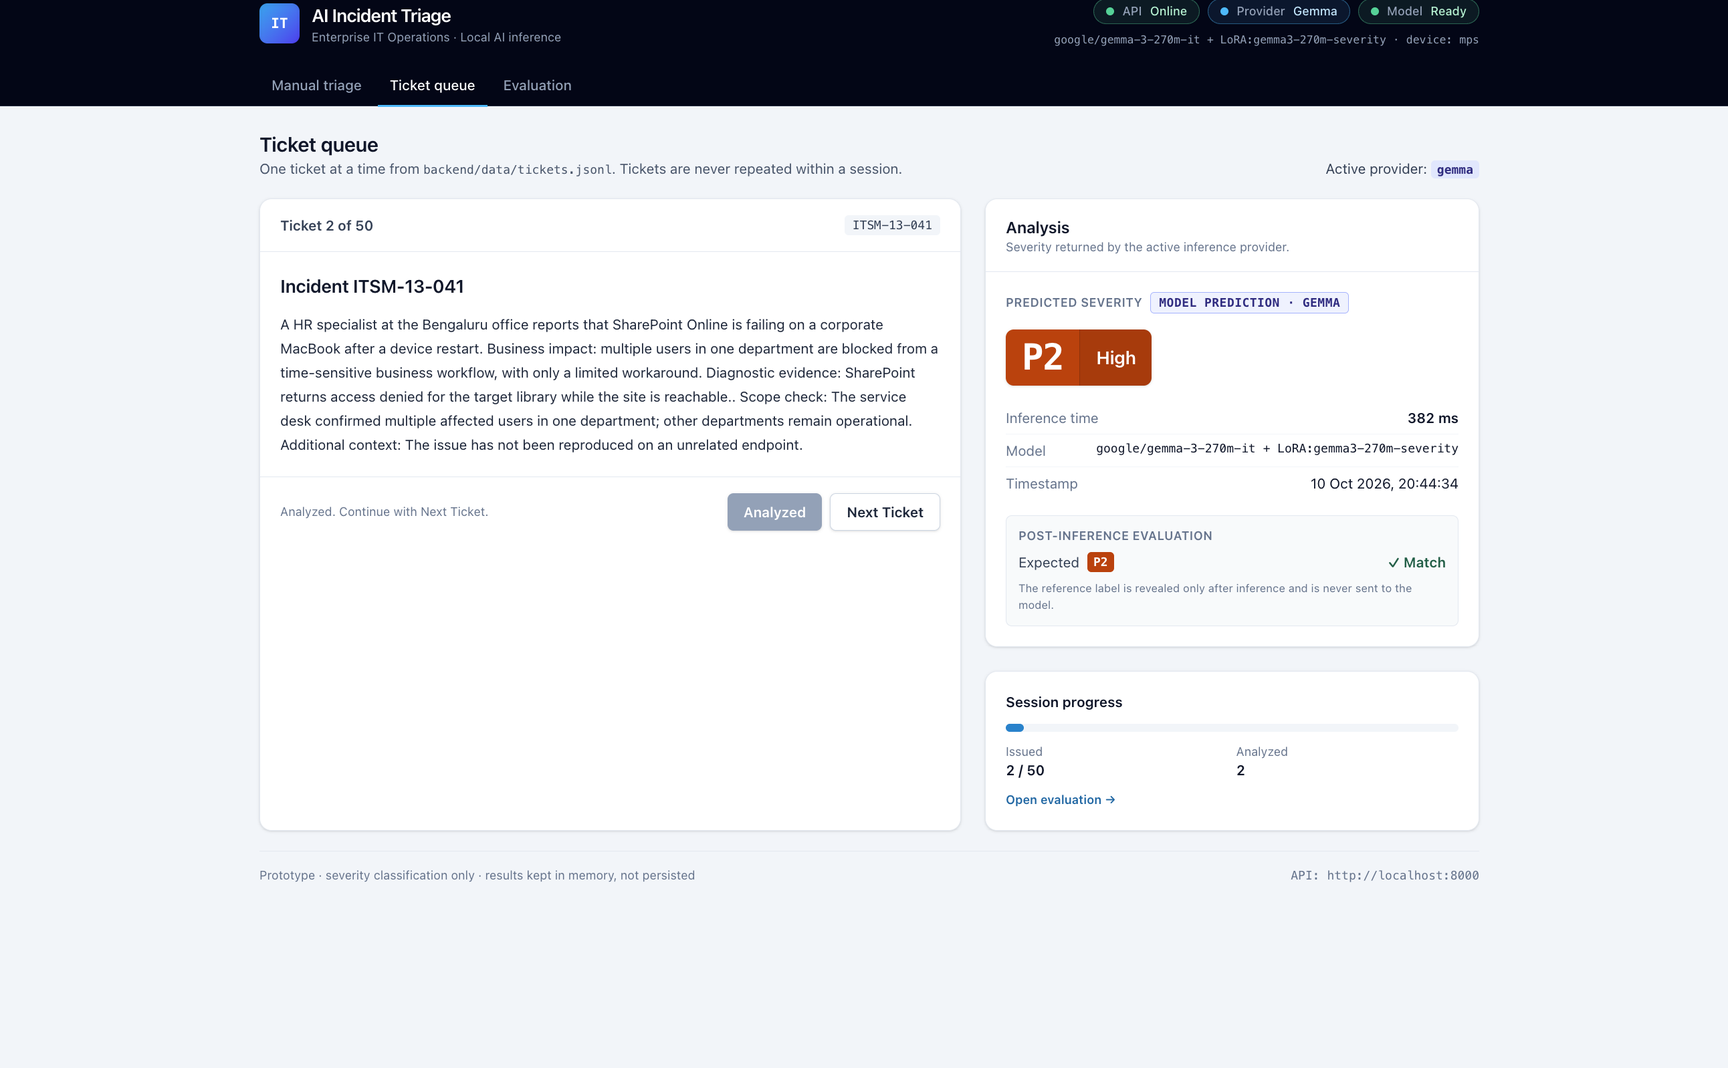
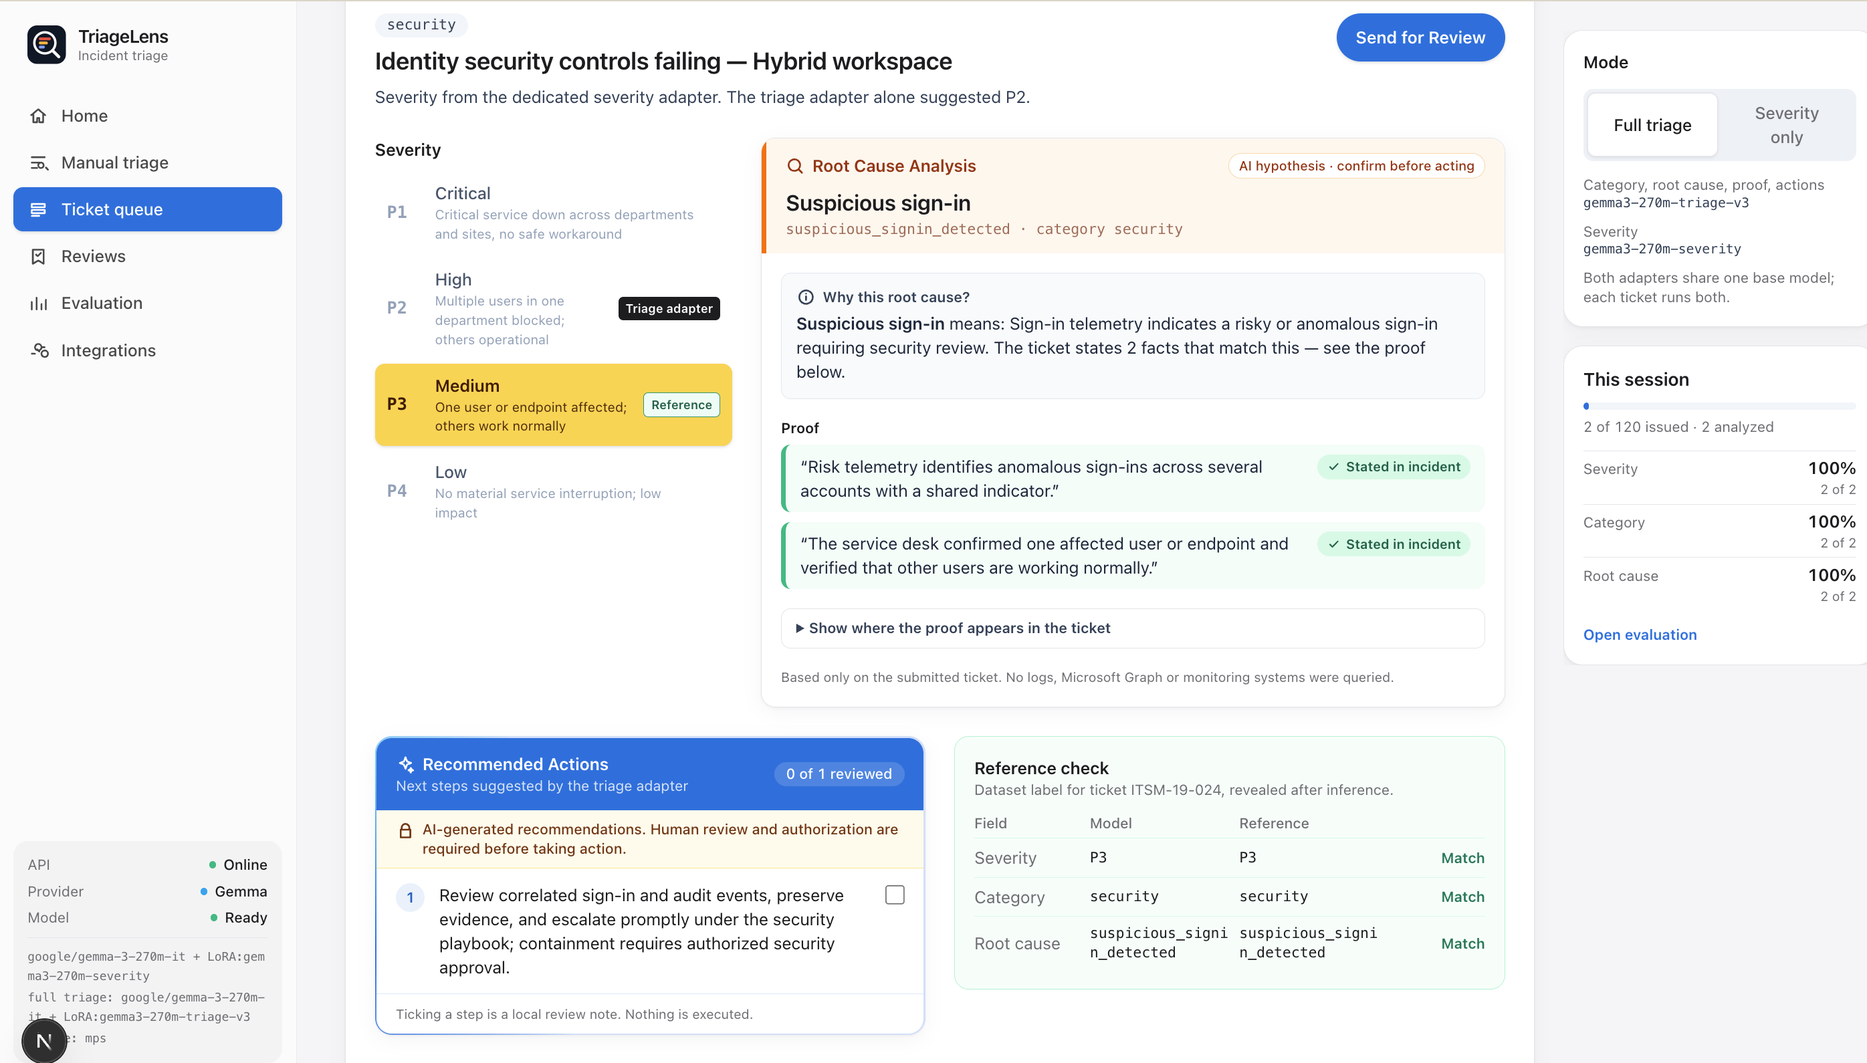
Update TriageLens content and speed up mobile rendering
- TriageLens: new screenshots, rewritten description, "How It Works"
  steps, and a Download Code + Model link
- Serve carousel images via next/image so phones get resized assets
- Disable costly effects on mobile (noise overlay, large blurs,
  backdrop blur, rotating demo border); throttle navbar scroll handler
- Lazy-load remaining images and tighten mobile spacing

diff --git a/components/Projects.tsx b/components/Projects.tsx
@@ -13,22 +13,26 @@ const projectsData = [
     status: "Machine Learning Project",
     featured: true,
     fineTuneDemo: true,
-    links: { "GitHub": "https://github.com/Atifelx/AI_Triage" },
+    links: {
+      "GitHub": "https://github.com/Atifelx/AI_Triage",
+      "Download Code + Model": "https://www.dropbox.com/scl/fo/gysi2jbvm043rygk7ag43/AIs7c81v_5BqOu4Qc8dS-hs?rlkey=wsfrjdq8yfbfnuzrsh6r5f1gc&st=z4dbmv3w&e=1&dl=0",
+    },
     image: "/AITRIAGE/1.png",
     slides: [
-      { src: "/AITRIAGE/1.png", title: "Live ticket queue" },
-      { src: "/AITRIAGE/2.png", title: "Manual triage" },
-      { src: "/AITRIAGE/3.png", title: "Evaluation dashboard" },
+      { src: "/AITRIAGE/1.png", title: "AI triage result" },
+      { src: "/AITRIAGE/2_1.png", title: "Route for human review" },
+      { src: "/AITRIAGE/4_1.png", title: "Review decision" },
+      { src: "/AITRIAGE/3_1.png", title: "Integrations" },
     ],
-    description: "Every IT service desk faces the same bottleneck: an engineer must read each incident and judge its urgency before it can be routed — slow, inconsistent, and costly when a critical outage waits in the queue. TriageLens reads the incident and instantly suggests a P1–P4 severity, so engineers confirm instead of triaging from scratch. Rather than paying for a large LLM API, I solved it with one of the smallest open models available: Google's Gemma 3 270M plus a 2.8 MB LoRA adapter. Prompting alone scored 7%; after two fine-tuning rounds, a severity-focused adapter scored 100% on a held-out synthetic test set. Real-world tickets written in other styles are harder, so the next step is training on a larger, more varied set of real incidents. It runs locally on CPU in ~0.4 s per ticket.",
+    slidesAspect: "2792 / 1590",
+    description: "AI Incident Triage is an AI-powered enterprise IT support tool that analyzes incidents, assesses their severity, identifies potential root causes, and recommends next steps. It is designed for common IT support tickets involving Microsoft 365 sign-in failures, Conditional Access, device compliance, Exchange email delivery, SharePoint permissions, Teams connectivity, network issues, and security alerts. By structuring incident information into actionable insights, it helps support teams prioritize issues, reduce manual triage effort, and route tickets to the appropriate team for human review.",
     tech: ["Gemma 3 270M", "LoRA / PEFT", "PyTorch", "Hugging Face", "FastAPI", "Next.js"],
     gradient: "from-teal-500/20 to-purple-500/20",
-    architectureTitle: "Why Gemma 3 270M",
+    architectureTitle: "How It Works",
     architecture: [
-      "Smallest model that fit — a 4-label task doesn't need a large model's world knowledge",
-      "Instruction-tuned — valid JSON 99% of the time before any training",
-      "Runs on CPU at ~0.41 s per ticket — no GPU server, no paid API",
-      "LoRA trains just 0.27% of weights — a 2.8 MB, swappable adapter"
+      "Analyze — processes incident details, affected users, services, and business impact using a fine-tuned Gemma model",
+      "Recommend — generates category, P1–P4 severity, likely root cause, supporting evidence, and recommended actions",
+      "Route — an engineer reviews the analysis and selects a destination such as Teams, CRM, ServiceNow, or Jira through mock integrations"
     ]
   },
   {
@@ -124,7 +128,7 @@ function ProjectCard({ project, idx }: { project: typeof projectsData[0]; idx: n
               viewport={{ once: true, margin: "-100px" }}
               transition={{ duration: 0.8, ease: [0.16, 1, 0.3, 1] }}
               className={clsx(
-                "flex flex-col gap-12 items-center",
+                "flex flex-col gap-8 md:gap-12 items-center",
                 idx % 2 === 0 ? "md:flex-row" : "md:flex-row-reverse"
               )}
             >
@@ -159,7 +163,7 @@ function ProjectCard({ project, idx }: { project: typeof projectsData[0]; idx: n
                     {project.title}
                   </h3>
 
-                  <p className="text-gray-400 text-lg md:text-xl leading-relaxed mb-8 max-w-xl">
+                  <p className="text-gray-400 text-base md:text-xl leading-relaxed mb-8 max-w-xl">
                     {project.description}
                   </p>
 
@@ -167,7 +171,7 @@ function ProjectCard({ project, idx }: { project: typeof projectsData[0]; idx: n
 
                   {/* Architecture Breakdown for CryptoClever */}
                   {(project as any).architecture && (
-                    <div className="mb-8 p-6 rounded-2xl bg-white/[0.03] border border-white/10">
+                    <div className="mb-8 p-4 md:p-6 rounded-2xl bg-white/[0.03] border border-white/10">
                       <h4 className="text-sm font-mono font-bold text-teal-400 uppercase tracking-widest mb-4">{(project as any).architectureTitle ?? "Agent Architecture"}</h4>
                       <div className="space-y-3">
                         {(project as any).architecture.map((line: string, aIdx: number) => (
@@ -226,7 +230,7 @@ function ProjectCard({ project, idx }: { project: typeof projectsData[0]; idx: n
                   className="relative group/img"
                 >
                   <div className={clsx(
-                    "absolute -inset-4 rounded-[2rem] bg-gradient-to-br opacity-0 group-hover/img:opacity-100 blur-2xl transition-opacity duration-700",
+                    "hidden md:block absolute -inset-4 rounded-[2rem] bg-gradient-to-br opacity-0 group-hover/img:opacity-100 blur-2xl transition-opacity duration-700",
                     project.gradient
                   )} />
                   {(project as any).slides ? (
@@ -236,6 +240,8 @@ function ProjectCard({ project, idx }: { project: typeof projectsData[0]; idx: n
                       <img
                         src={project.image}
                         alt={project.title}
+                        loading="lazy"
+                        decoding="async"
                         className="w-full h-auto object-cover transition-transform duration-700 group-hover/img:scale-105"
                       />
                       <div className="absolute inset-0 bg-gradient-to-t from-black/40 via-transparent to-transparent pointer-events-none" />
@@ -268,7 +274,7 @@ export default function Projects() {
           </p>
         </motion.div>
 
-        <div className="space-y-40">
+        <div className="space-y-24 md:space-y-40">
           {featuredProjects.map((project, idx) => (
             <ProjectCard key={idx} project={project} idx={idx} />
           ))}
@@ -305,7 +311,7 @@ export default function Projects() {
               transition={{ duration: 0.5, ease: [0.16, 1, 0.3, 1] }}
               className="overflow-hidden"
             >
-              <div className="space-y-40 pt-32">
+              <div className="space-y-24 md:space-y-40 pt-24 md:pt-32">
                 {exploreProjects.map((project, idx) => (
                   <ProjectCard key={idx} project={project} idx={idx} />
                 ))}
@@ -316,8 +322,8 @@ export default function Projects() {
       </div>
 
       {/* Decorative background elements */}
-      <div className="absolute top-1/2 left-0 w-64 h-64 bg-teal-600/10 rounded-full blur-[128px] pointer-events-none" />
-      <div className="absolute bottom-0 right-0 w-96 h-96 bg-purple-600/10 rounded-full blur-[128px] pointer-events-none" />
+      <div className="hidden md:block absolute top-1/2 left-0 w-64 h-64 bg-teal-600/10 rounded-full blur-[128px] pointer-events-none" />
+      <div className="hidden md:block absolute bottom-0 right-0 w-96 h-96 bg-purple-600/10 rounded-full blur-[128px] pointer-events-none" />
     </section>
   );
 }

diff --git a/components/ImageCarousel.tsx b/components/ImageCarousel.tsx
@@ -2,6 +2,7 @@
 
 import { useCallback, useEffect, useState } from "react";
 import { createPortal } from "react-dom";
+import Image from "next/image";
 import { motion, AnimatePresence, useReducedMotion } from "framer-motion";
 import { ChevronLeft, ChevronRight, Maximize2, X } from "lucide-react";
 import clsx from "clsx";
@@ -19,11 +20,11 @@ function NavButton({ dir, onClick, large }: { dir: "prev" | "next"; onClick: () 
       aria-label={dir === "prev" ? "Previous image" : "Next image"}
       className={clsx(
         "absolute top-1/2 -translate-y-1/2 z-10 rounded-full bg-black/60 backdrop-blur-md border border-white/15 text-white flex items-center justify-center hover:bg-teal-400 hover:text-black hover:border-teal-400 transition-colors",
-        dir === "prev" ? (large ? "left-6" : "left-4") : (large ? "right-6" : "right-4"),
-        large ? "w-14 h-14" : "w-11 h-11"
+        dir === "prev" ? (large ? "left-2 md:left-6" : "left-2 md:left-4") : (large ? "right-2 md:right-6" : "right-2 md:right-4"),
+        large ? "w-11 h-11 md:w-14 md:h-14" : "w-8 h-8 md:w-11 md:h-11"
       )}
     >
-      <Icon size={large ? 26 : 22} />
+      <Icon size={large ? 24 : 18} />
     </button>
   );
 }
@@ -85,13 +86,15 @@ export default function ImageCarousel({ slides, alt, aspectRatio = "2584 / 1598"
       >
         <div className="relative overflow-hidden" style={{ aspectRatio }}>
           <AnimatePresence initial={false} mode="popLayout">
-            <motion.img
-              key={slide.src}
-              src={slide.src}
-              alt={`${alt} — ${slide.title}`}
-              {...slideMotion}
-              className="absolute inset-0 w-full h-full object-contain transition-transform duration-700 group-hover/img:scale-105"
-            />
+            <motion.div key={slide.src} {...slideMotion} className="absolute inset-0">
+              <Image
+                src={slide.src}
+                alt={`${alt} — ${slide.title}`}
+                fill
+                sizes="(max-width: 768px) 100vw, 50vw"
+                className="object-contain transition-transform duration-700 group-hover/img:scale-105"
+              />
+            </motion.div>
           </AnimatePresence>
           <div className="absolute inset-0 bg-gradient-to-t from-black/60 via-transparent to-transparent pointer-events-none" />
 
@@ -134,7 +137,7 @@ export default function ImageCarousel({ slides, alt, aspectRatio = "2584 / 1598"
               animate={{ opacity: 1 }}
               exit={{ opacity: 0 }}
               transition={{ duration: 0.3 }}
-              className="fixed inset-0 z-[100] bg-black/90 backdrop-blur-lg flex flex-col items-center justify-center p-6 cursor-zoom-out"
+              className="fixed inset-0 z-[100] bg-black/90 md:backdrop-blur-lg flex flex-col items-center justify-center p-3 md:p-6 cursor-zoom-out"
               role="dialog"
               aria-modal="true"
               aria-label={`${alt} — full screen`}
@@ -153,17 +156,19 @@ export default function ImageCarousel({ slides, alt, aspectRatio = "2584 / 1598"
                 initial={{ scale: 0.9 }}
                 animate={{ scale: 1 }}
                 transition={{ duration: 0.4, ease: [0.16, 1, 0.3, 1] }}
-                className="relative w-full max-w-7xl h-[82vh] flex items-center justify-center"
+                className="relative w-full max-w-7xl h-[70vh] md:h-[82vh] flex items-center justify-center"
               >
                 <AnimatePresence initial={false} mode="popLayout">
-                  <motion.img
-                    key={slide.src}
-                    src={slide.src}
-                    alt={`${alt} — ${slide.title}`}
-                    {...slideMotion}
-                    onClick={(e) => e.stopPropagation()}
-                    className="max-w-full max-h-full object-contain rounded-xl border border-white/10 shadow-2xl cursor-default"
-                  />
+                  <motion.div key={slide.src} {...slideMotion} className="absolute inset-0">
+                    <Image
+                      src={slide.src}
+                      alt={`${alt} — ${slide.title}`}
+                      fill
+                      sizes="100vw"
+                      onClick={(e) => e.stopPropagation()}
+                      className="object-contain cursor-default"
+                    />
+                  </motion.div>
                 </AnimatePresence>
               </motion.div>
 

diff --git a/components/Hybrid.tsx b/components/Hybrid.tsx
@@ -51,8 +51,8 @@ export default function Hybrid() {
 
           <div className="glass-card p-8 md:p-10 border border-white/10 bg-[#0a0a0a]/80 mb-16 relative overflow-hidden group">
             {/* Animated accent gradient */}
-            <div className="absolute top-0 right-0 w-64 h-64 bg-teal-500/10 rounded-full blur-[80px] -z-10 group-hover:bg-teal-500/20 transition-colors duration-700" />
-            <div className="absolute bottom-0 left-0 w-64 h-64 bg-purple-500/10 rounded-full blur-[80px] -z-10 group-hover:bg-purple-500/20 transition-colors duration-700" />
+            <div className="hidden md:block absolute top-0 right-0 w-64 h-64 bg-teal-500/10 rounded-full blur-[80px] -z-10 group-hover:bg-teal-500/20 transition-colors duration-700" />
+            <div className="hidden md:block absolute bottom-0 left-0 w-64 h-64 bg-purple-500/10 rounded-full blur-[80px] -z-10 group-hover:bg-purple-500/20 transition-colors duration-700" />
 
             <div className="flex items-center gap-4 mb-6">
               <span className="px-4 py-2 text-sm font-black tracking-wider uppercase rounded-full bg-gradient-to-r from-amber-500/20 to-orange-500/20 text-amber-400 border border-amber-500/30">
@@ -171,7 +171,7 @@ export default function Hybrid() {
             className="fixed inset-0 z-[100] flex items-center justify-center p-4 md:p-8"
           >
             <div 
-              className="absolute inset-0 bg-black/80 backdrop-blur-md cursor-pointer"
+              className="absolute inset-0 bg-black/80 md:backdrop-blur-md cursor-pointer"
               onClick={() => setSelectedImages(null)}
             />
             
@@ -196,7 +196,7 @@ export default function Hybrid() {
                 <div className={`grid gap-4 ${selectedImages.length > 1 ? 'grid-cols-1 md:grid-cols-2' : 'grid-cols-1'}`}>
                   {selectedImages.map((img, i) => (
                     <div key={i} className="rounded-lg overflow-hidden border border-white/10 bg-black">
-                      <img 
+                      <img loading="lazy" decoding="async" 
                         src={img} 
                         alt="Hardware Project Detail" 
                         className="w-full h-auto object-contain max-h-[70vh] mx-auto"

diff --git a/components/NavBar.tsx b/components/NavBar.tsx
@@ -20,7 +20,9 @@ export default function NavBar() {
   const [isMobileMenuOpen, setIsMobileMenuOpen] = useState(false);
 
   useEffect(() => {
-    const handleScroll = () => {
+    let frame = 0;
+    const update = () => {
+      frame = 0;
       setIsScrolled(window.scrollY > 50);
 
       const sections = ["home", "about", "projects", "experience", "strength", "achievements", "hybrid", "contact"];
@@ -33,9 +35,16 @@ export default function NavBar() {
       }
       if (current) setActiveSection(current);
     };
+    // Coalesce scroll events to one update per frame
+    const handleScroll = () => {
+      if (!frame) frame = requestAnimationFrame(update);
+    };
 
-    window.addEventListener("scroll", handleScroll);
-    return () => window.removeEventListener("scroll", handleScroll);
+    window.addEventListener("scroll", handleScroll, { passive: true });
+    return () => {
+      window.removeEventListener("scroll", handleScroll);
+      cancelAnimationFrame(frame);
+    };
   }, []);
 
   const handleNavClick = (href: string) => {
@@ -56,7 +65,7 @@ export default function NavBar() {
       transition={{ duration: 0.6, ease: "easeOut" }}
       className={clsx(
         "fixed top-0 left-0 right-0 z-50 transition-all duration-300",
-        isScrolled ? "bg-black/80 backdrop-blur-xl py-4 border-b border-white/5" : "bg-transparent py-6"
+        isScrolled ? "bg-black/90 md:bg-black/80 md:backdrop-blur-xl py-4 border-b border-white/5" : "bg-transparent py-6"
       )}
     >
       <div className="container mx-auto px-6 max-w-7xl flex justify-between items-center">
@@ -120,7 +129,7 @@ export default function NavBar() {
         <motion.div
           initial={{ opacity: 0, y: -20 }}
           animate={{ opacity: 1, y: 0 }}
-          className="md:hidden bg-black/95 backdrop-blur-2xl absolute top-full left-0 right-0 py-8 flex flex-col items-center space-y-6 shadow-2xl border-t border-white/10"
+          className="md:hidden bg-black/95 absolute top-full left-0 right-0 py-8 flex flex-col items-center space-y-6 shadow-2xl border-t border-white/10"
         >
           {navLinks.map((link) => (
             <a

diff --git a/components/Hero.tsx b/components/Hero.tsx
@@ -10,8 +10,8 @@ export default function Hero() {
       className="relative min-h-screen flex items-center justify-center pt-24 pb-12 overflow-hidden bg-black"
     >
       {/* Background gradients */}
-      <div className="absolute top-1/4 left-1/4 w-96 h-96 bg-purple-600/20 rounded-full blur-[128px] pointer-events-none" />
-      <div className="absolute bottom-1/4 right-1/4 w-[28rem] h-[28rem] bg-teal-600/20 rounded-full blur-[128px] pointer-events-none" />
+      <div className="absolute top-1/4 left-1/4 w-48 h-48 md:w-96 md:h-96 bg-purple-600/20 rounded-full blur-3xl md:blur-[128px] pointer-events-none" />
+      <div className="absolute bottom-1/4 right-1/4 w-56 h-56 md:w-[28rem] md:h-[28rem] bg-teal-600/20 rounded-full blur-3xl md:blur-[128px] pointer-events-none" />
 
       <div className="container mx-auto px-6 max-w-6xl relative z-10 flex flex-col md:flex-row items-center">
         <div className="w-full md:w-full text-left">
@@ -74,7 +74,7 @@ export default function Hero() {
 
             <a
               href="mailto:aatif2003@gmail.com"
-              className="group inline-flex items-center justify-center px-8 py-4 font-bold text-white bg-white/5 backdrop-blur border border-white/10 rounded-xl transition-all duration-300 hover:bg-white/10 hover:scale-105"
+              className="group inline-flex items-center justify-center px-8 py-4 font-bold text-white bg-white/5 md:backdrop-blur border border-white/10 rounded-xl transition-all duration-300 hover:bg-white/10 hover:scale-105"
             >
               <Mail size={22} className="mr-2 text-teal-400" />
               <span>Email Me</span>

diff --git a/components/FineTuneDemo.tsx b/components/FineTuneDemo.tsx
@@ -42,11 +42,11 @@ export default function FineTuneDemo() {
   const ex = examples[i];
 
   return (
-    <div className="relative mb-8 rounded-2xl p-px overflow-hidden max-w-xl">
-      {/* Rotating gradient border */}
+    <div className="relative mb-8 rounded-2xl p-px overflow-hidden max-w-xl bg-gradient-to-br from-teal-400/70 via-purple-500/50 to-transparent sm:bg-none">
+      {/* Rotating gradient border (static gradient on mobile to save GPU) */}
       <motion.div
         aria-hidden
-        className="absolute inset-[-150%]"
+        className="hidden sm:block absolute inset-[-150%]"
         style={{ background: "conic-gradient(from 0deg, transparent 0deg, #2dd4bf 70deg, #a855f7 140deg, transparent 200deg)" }}
         animate={reduceMotion ? undefined : { rotate: 360 }}
         transition={{ duration: 6, repeat: Infinity, ease: "linear" }}

diff --git a/components/Strength.tsx b/components/Strength.tsx
@@ -49,7 +49,7 @@ export default function Strength() {
             
             <div className="relative group rounded-xl overflow-hidden glass-card p-2 md:p-4 border border-white/10">
               <div className="relative w-full aspect-auto rounded-lg overflow-hidden bg-white/5 border border-white/5">
-                <img 
+                <img loading="lazy" decoding="async" 
                   src="/ch1.png" 
                   alt="LinkedIn Recommendations from Dr. Chiranjiv Roy and Bilal Hameed"
                   className="w-full h-auto object-cover opacity-80 filter grayscale-[20%] transition-all duration-500 group-hover:opacity-100 group-hover:grayscale-0"

diff --git a/components/About.tsx b/components/About.tsx
@@ -157,7 +157,7 @@ function SkillCard({ category, idx }: { category: SkillCategory; idx: number }) 
       viewport={{ once: true, margin: "-50px" }}
       transition={{ duration: 0.5, delay: idx * 0.08 }}
       className={clsx(
-        "group relative rounded-2xl border backdrop-blur-sm transition-all duration-500",
+        "group relative rounded-2xl border md:backdrop-blur-sm transition-all duration-500",
         "bg-[#0a0a0a] border-white/[0.06]",
         "hover:border-white/10 hover:shadow-2xl",
       )}

diff --git a/components/Achievements.tsx b/components/Achievements.tsx
@@ -110,7 +110,7 @@ export default function Achievements() {
                           transition={{ duration: 0.3 }}
                           className="w-full rounded-lg overflow-hidden border border-white/10 relative z-0"
                         >
-                          <img 
+                          <img loading="lazy" decoding="async" 
                             src={item.image} 
                             alt={item.title} 
                             className="w-full h-auto object-cover"

diff --git a/app/layout.tsx b/app/layout.tsx
@@ -29,7 +29,7 @@ export default function RootLayout({
       <body
         className={`${archivo.variable} ${jetbrainsMono.variable} antialiased bg-[#0a0a0a] text-white min-h-screen relative overflow-x-hidden font-sans`}
       >
-        <div className="fixed inset-0 pointer-events-none z-[-1] noise-bg opacity-[0.03]"></div>
+        <div className="hidden md:block fixed inset-0 pointer-events-none z-[-1] noise-bg opacity-[0.03]"></div>
         {children}
       </body>
     </html>

diff --git a/components/SocialProof.tsx b/components/SocialProof.tsx
@@ -166,7 +166,7 @@ export default function SocialProof() {
               >
                 {/* Image */}
                 <div className="w-16 h-16 rounded-xl overflow-hidden border border-white/10 flex-shrink-0 bg-white/5">
-                  <img
+                  <img loading="lazy" decoding="async"
                     src={item.image}
                     alt={item.title}
                     className="w-full h-full object-cover"
